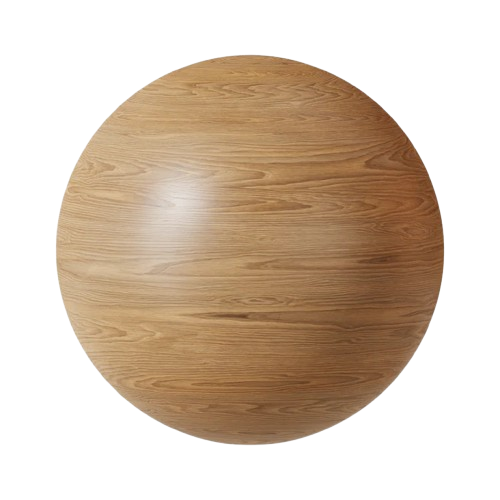
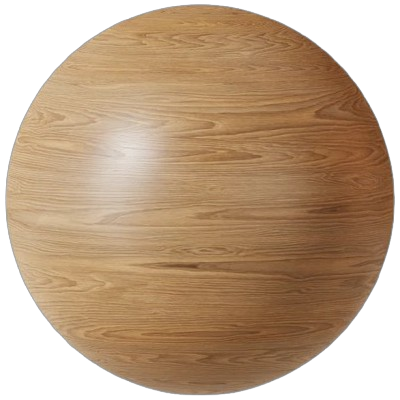
Finalize ball physics

diff --git a/components/Plinko.tsx b/components/Plinko.tsx
@@ -23,14 +23,14 @@ const Plinko = () => {
         const ballTexture = await PIXI.Assets.load<PIXI.Texture>('/ballBearing.png');
         const pegTexture = await PIXI.Assets.load<PIXI.Texture>('/woodenCircle.png');
 
-
-        /* START ChatGPT Code */
             
             // Game variables
             let score = 0;
             let points = 100;
             let canBuyBall = true;
             let ballInPlay = false;
+            const BALL_RADIUS = 15;
+            const PEG_RADIUS = 20;
             
             // Data structure to store velocities for each sprite
             const velocities = new Map<number, { velocityX: number, velocityY: number}>();
@@ -47,8 +47,8 @@ const Plinko = () => {
             // Create the Plinko pegs (using sprites now)
             const pegs: PIXI.Sprite[] = [];
             const rowCount = 10;
-            const columnCount = 10;
-            const pegSpacing = app.screen.width / 10 ;
+            const columnCount = 12;
+            const pegSpacing = app.screen.width / 12 ;
             
             for (let row = 0; row < rowCount; row++) {
                 const yPos = 100 + row * pegSpacing;
@@ -56,7 +56,7 @@ const Plinko = () => {
                     const xPos = (col * pegSpacing) + (row % 2 === 0 ? 0 : pegSpacing / 2);
                 
                     const peg = new PIXI.Sprite(pegTexture);
-                    peg.setSize( 40 );
+                    peg.setSize( PEG_RADIUS * 2 );
                     peg.anchor.set(0.5); // To center the peg's texture
                     peg.x = xPos;
                     peg.y = yPos;
@@ -69,7 +69,7 @@ const Plinko = () => {
             let ball: PIXI.Sprite;
             function createBall( xPosition: number ) {
                 ball = new PIXI.Sprite(ballTexture);
-                ball.setSize( 30 );
+                ball.setSize( BALL_RADIUS * 2 );
                 ball.anchor.set(0.5);
                 ball.x = xPosition
                 ball.y = 50; // start position (top of the board)
@@ -121,32 +121,31 @@ const Plinko = () => {
                 const ballVelocity = getBallVelocity();
                 ball.y += ballVelocity.velocityY
                 ball.x += ballVelocity.velocityX
-            
+
                 // Check for collisions with pegs
                 for (const peg of pegs) {
                     const dist = Math.sqrt(Math.pow(ball.x - peg.x, 2) + Math.pow(ball.y - peg.y, 2));
             
                     // If the ball hits a peg
-                    if (dist < 13 + 20) { // ball radius + peg radius
+                    if (dist < BALL_RADIUS + PEG_RADIUS) { // ball radius + peg radius
+
                         const distanceToPegX = Math.abs(ball.x - peg.x);
                         const distanceToPegY = Math.abs(ball.y - peg.y);
-                        if (ball.x < peg.x) {
+
+                        if (ball.x <= peg.x) {
                             setBallVelocity(
-                                ballVelocity.velocityX + (-0.5 * (distanceToPegX / 20) )
-                                // ballVelocity.velocityX + (-0.5 * (Math.max(ballVelocity.velocityX, distanceToPegX / 20)) )
-                                , ballVelocity.velocityY + (-ballVelocity.velocityY * (distanceToPegY / 33 )) );
+                                (-0.5 * (distanceToPegX / 10) )
+                                , ballVelocity.velocityY - (ballVelocity.velocityY * (distanceToPegY / PEG_RADIUS )) );
                         } else {
                             setBallVelocity(
-                                ballVelocity.velocityX + (0.5 * (distanceToPegX / 20) )
-                                // ballVelocity.velocityX + (0.5 * (Math.max(ballVelocity.velocityX, distanceToPegX / 15)) )
-                                , -ballVelocity.velocityY + (-ballVelocity.velocityY * (distanceToPegY / 33 )) );
+                                (0.5 * (distanceToPegX / 10 ) )
+                                , ballVelocity.velocityY - (ballVelocity.velocityY * (distanceToPegY / PEG_RADIUS )) );
                         }
-                        // ball.y = peg.y + 20 + 15; // prevent ball from overlapping peg
                     }
                 }
-            
+
                 // Check if ball reaches bottom
-                if (ball.y > app.screen.height - 50) {
+                if (ball.y > app.screen.height - (BALL_RADIUS * 2)) {
                     ballInPlay = false;
                     calculateScore();
                 }
